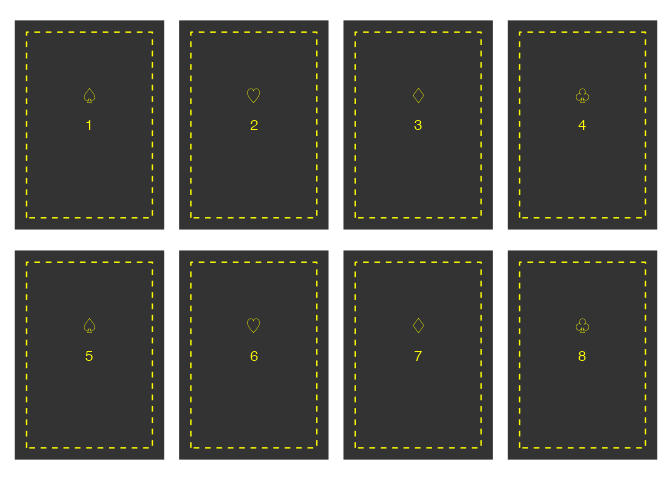
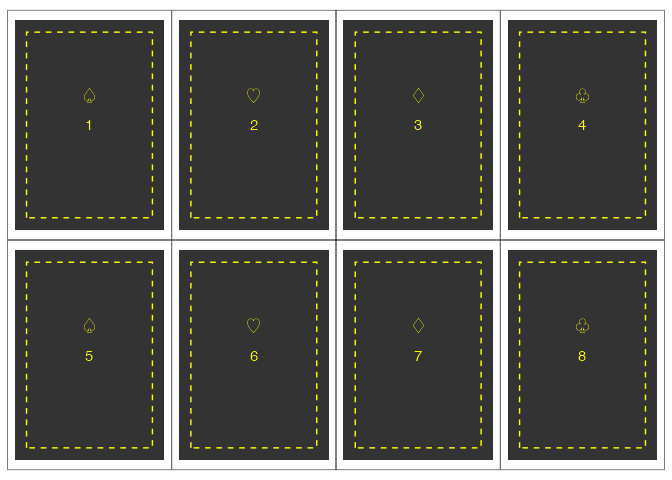
Update README

Changed region(s): [[0.0, 0.0312, 1.0, 0.9688], [0.4688, 0.9375, 0.5312, 0.9688], [0.4688, 0.0312, 0.5312, 0.0625]]

diff --git a/README.md b/README.md
@@ -59,9 +59,10 @@ get_card("Poker")
 
 papersize includes plotting functions that create lists of ggplot2 plots
 with repeated elements that can be assembled with patchwork into page
-layouts for print. For example, `plot_cards()` creates a list of
-Poker-card sized plots that can be tiled onto a letter-size patchwork to
-save and print.
+layouts for print.
+
+For example, `plot_cards()` creates a list of Poker-card sized plots
+that can be tiled onto a letter-size patchwork to save and print.
 
 ``` r
 papersize <-
@@ -93,7 +94,82 @@ page_layout(
 
 <img src="man/figures/README-layout_cards-1.png" width="100%" />
 
-papersize currently has very limited features but additional features
-are expected to include better support for multi-page layouts, control
-over the position of card elements, preset card formats/designs, and
+This more involved example uses the internal `add_card_border()`
+function to apply rectangular elements to the card plot:
+
+``` r
+card <- get_card("Poker card")
+
+card_center <- card
+card_center[["x"]] <- 0
+card_center[["y"]] <- 0
+card_offset <- card_center
+card_offset[["y"]] <- 0.75
+
+card_plots <- plot_cards(
+  "Poker card",
+  fill = "white",
+  linetype = "solid",
+  color = "black",
+  linewidth = 0.45,
+  n = 8,
+  border = TRUE,
+  inset = 0
+)
+
+card_plots[[1]]
+```
+
+<img src="man/figures/README-unnamed-chunk-2-1.png" width="100%" />
+
+``` r
+# Add outline of image
+bordered_cards <- add_card_border(
+  card_plots,
+  card = card_offset,
+  color = "black",
+  linewidth = 0.25,
+  linetype = "solid",
+  inset = c(0.2, 1)
+)
+
+bordered_cards[[1]]
+```
+
+<img src="man/figures/README-unnamed-chunk-3-1.png" width="100%" />
+
+``` r
+bordered_cards <- bordered_cards |>
+  add_card_border(
+    card = card_center,
+    color = "gray50",
+    linewidth = 0.25,
+    linetype = "solid",
+    inset = c(0.1, 0.1)
+  )
+
+bordered_cards[[1]]
+```
+
+<img src="man/figures/README-unnamed-chunk-4-1.png" width="100%" />
+
+Card plots are then assembled in a page ready for export, printing, and
+cutting:
+
+``` r
+card_page <- page_layout(
+  plots = bordered_cards,
+  page = "Letter",
+  orientation = "landscape"
+)
+#> ℹ Using `dims` from first plot in `plots`.
+
+card_page[[1]]
+```
+
+<img src="man/figures/README-unnamed-chunk-5-1.png" width="100%" />
+
+papersize currently has limited features but additional features are
+expected to include better support for multi-page layouts, control over
+the position of card elements, preset card formats/designs, and
 appropriate handling of cut-lines for DIY card printing.
